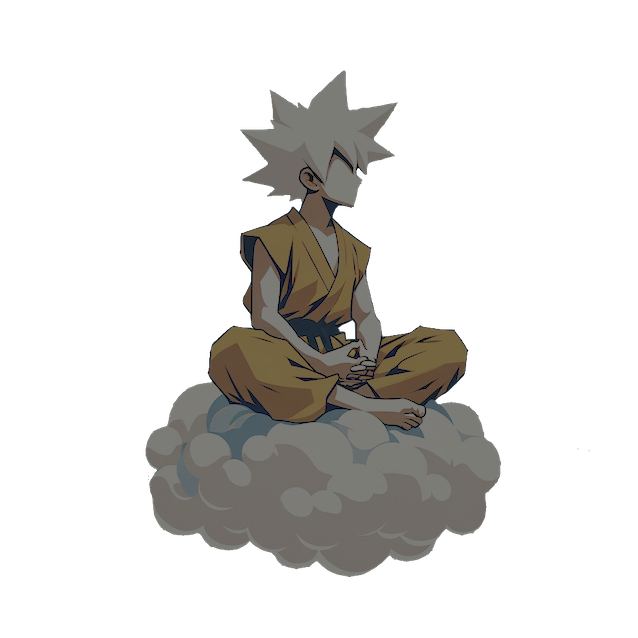
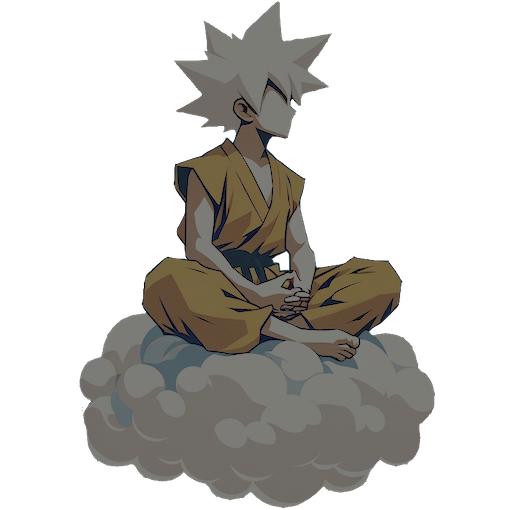
update

Changed region(s): [[0.1471, 0.0, 0.8529, 1.0]]

diff --git a/_includes/sidebar.html b/_includes/sidebar.html
@@ -46,7 +46,7 @@
   <div class="container sidebar-sticky">
     
     <center>
-    <img src="{{site.url}}/assets/goku_chatgpt.png" alt="" height="150px">
+    <img src="{{site.url}}/assets/goku_chatgpt.png" alt="" height="170px">
     </center>
     
     <div class="sidebar-about">
